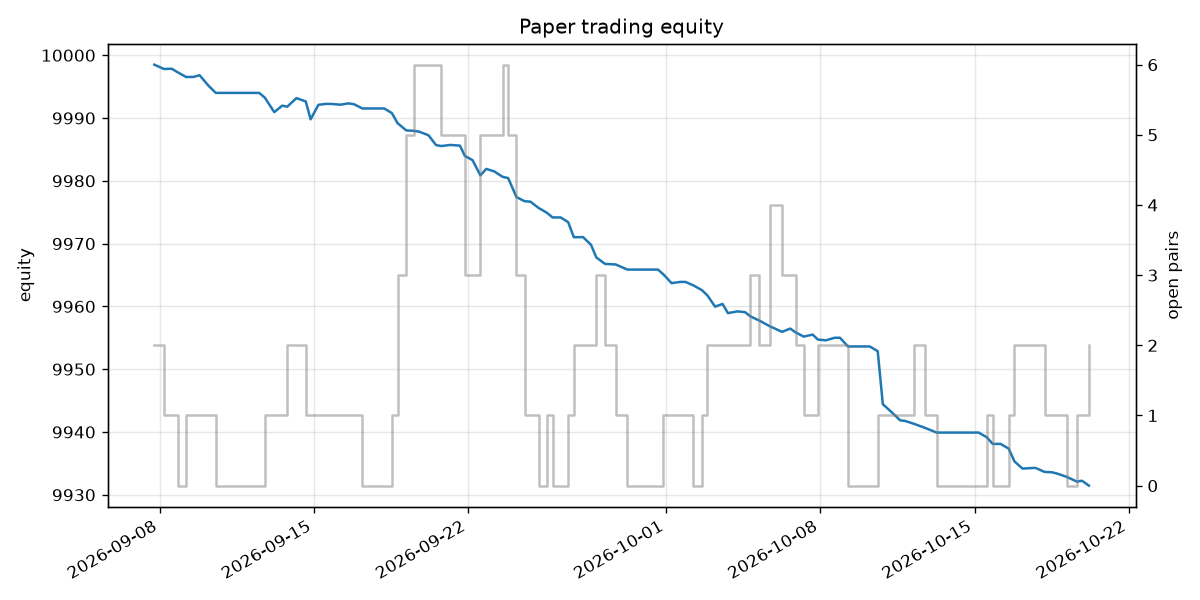
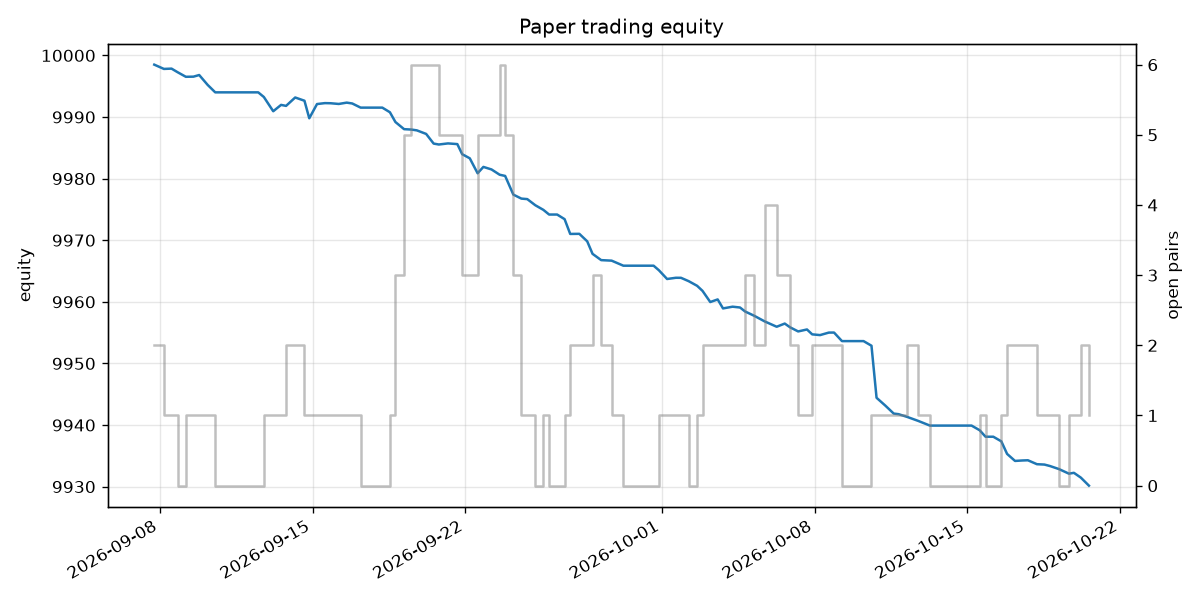
paper: step 2026-10-20T13:32Z

diff --git a/reports/paper_latest.md b/reports/paper_latest.md
@@ -1,32 +1,32 @@
 # Paper trading status
 
-Run #125 at 2026-10-20 04:40 UTC. Threshold 0.010% per funding interval, signal = mean of last 3 settled rates. Universe: BTCUSDT, ETHUSDT, SOLUSDT, ZECUSDT, SOXLUSDT, XRPUSDT, SOXSUSDT, QQQUSDT, BNBUSDT, NEARUSDT.
+Run #126 at 2026-10-20 13:31 UTC. Threshold 0.010% per funding interval, signal = mean of last 3 settled rates. Universe: BTCUSDT, ETHUSDT, SOLUSDT, ZECUSDT, SOXLUSDT, XRPUSDT, SOXSUSDT, NEARUSDT, QQQUSDT, WLDUSDT.
 
 | metric | value |
 |---|---|
-| equity | 9,931.46 USDT |
-| return since start | -0.69% (42.5 days) |
-| annualised | -5.89% |
-| realized (closed pairs) | -67.14 USDT |
-| funding received this run | 0.0000 USDT |
-| open pairs | 2 / 10 |
-| free cash | 7,932.86 USDT |
+| equity | 9,930.16 USDT |
+| return since start | -0.70% (42.8 days) |
+| annualised | -5.95% |
+| realized (closed pairs) | -68.68 USDT |
+| funding received this run | 0.0497 USDT |
+| open pairs | 1 / 10 |
+| free cash | 8,931.32 USDT |
 | skipped symbols | 0 |
 
 ## Positions & risk
 
 | symbol | held | action | signal | mark | spot | funding accrued | basis MTM | margin ratio | liq. price | liq. distance |
 |---|---|---|---|---|---|---|---|---|---|---|
-| QQQUSDT | yes |  | 0.0181% | 718.1600 | 718.1600 | 0.0000 | 0.1026 | 0.49% | 1,441.8109 | 100.8% |
-| ZECUSDT | yes | OPEN | 0.0100% | 1,147.8500 | 1,148.1600 | 0.0000 | 0.0000 | 0.50% | 2,284.2786 | 99.0% |
-| BNBUSDT | no |  | 0.0067% | 730.5500 | 730.9000 | - | - | - | - | - |
-| BTCUSDT | no |  | 0.0042% | 82,044.1200 | 82,087.7000 | - | - | - | - | - |
-| ETHUSDT | no |  | 0.0064% | 2,411.6100 | 2,412.6900 | - | - | - | - | - |
-| NEARUSDT | no |  | 0.0049% | 4.8231 | 4.8250 | - | - | - | - | - |
-| SOLUSDT | no |  | 0.0003% | 105.1700 | 105.2100 | - | - | - | - | - |
-| SOXLUSDT | no |  | 0.0000% | 95.8600 | 95.8800 | - | - | - | - | - |
-| SOXSUSDT | no |  | 0.0000% | 48.0800 | 48.0800 | - | - | - | - | - |
-| XRPUSDT | no |  | 0.0043% | 1.3057 | 1.3063 | - | - | - | - | - |
+| ZECUSDT | yes |  | 0.0100% | 1,141.9200 | 1,141.1700 | 0.0497 | -0.4609 | 0.49% | 2,284.2786 | 100.0% |
+| BTCUSDT | no |  | 0.0061% | 81,327.1400 | 81,355.6000 | - | - | - | - | - |
+| ETHUSDT | no |  | 0.0066% | 2,387.6400 | 2,388.6500 | - | - | - | - | - |
+| NEARUSDT | no |  | -0.0000% | 4.6739 | 4.6760 | - | - | - | - | - |
+| QQQUSDT | no | CLOSE | 0.0000% | 715.5400 | 715.3300 | - | - | - | - | - |
+| SOLUSDT | no |  | 0.0009% | 104.2000 | 104.2400 | - | - | - | - | - |
+| SOXLUSDT | no |  | 0.0000% | 93.5100 | 93.5000 | - | - | - | - | - |
+| SOXSUSDT | no |  | 0.0000% | 49.2300 | 49.2400 | - | - | - | - | - |
+| WLDUSDT | no |  | 0.0034% | 0.5496 | 0.5498 | - | - | - | - | - |
+| XRPUSDT | no |  | 0.0062% | 1.2957 | 1.2964 | - | - | - | - | - |
 
 ![equity](paper_equity.png)
 
